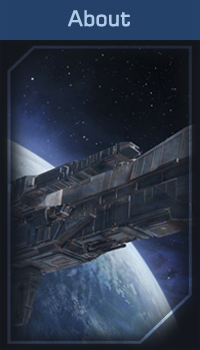
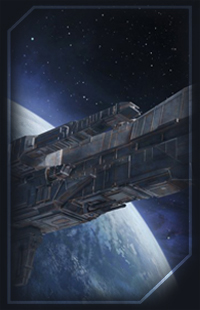
Add styling to one nav link

diff --git a/assets/css/style.css b/assets/css/style.css
@@ -139,20 +139,40 @@ nav {
     width: 1200px;
     margin: auto;
     background-color: yellow;
-    min-height: 100px;
+    min-height: 350px;
     clear: both;
     margin-top: 5px;
+    background-color: teal;
 }
 
 nav span {
-    background-color: red;
+    background-color: #244169;
     width: 200px;
-    height: 20px;
+    height: 11px;
     text-align: center;
     margin: 0px;
-    padding: 10px 0px;
+    padding-top: 10px;
+    padding-bottom: 20px; 
     float: left;
     font-size: 21px;
+    font-weight: 500;
+    color: #AECAEA;
 }
 
+.nav-about-img {
+    background-image: url("../images/navigation-about-full.jpg");
+    height: 280px;
+    margin-top: 10px;
+}
 
+nav span:hover {
+    background-color: #2D5183;
+}
+
+nav span:hover > .nav-about-img {
+    background-image: url("../images/navigation-about-on-full.jpg");
+}
+
+.nav-about-img:hover {
+    background-image: url("../images/navigation-about-on-full.jpg");
+}

diff --git a/index.html b/index.html
@@ -41,12 +41,16 @@
     <!-- Navbar -->
     <nav>
         <div>
-            <span>
-                a
-            </span>
-            <span>
-                b
-            </span>
+            <a href="#">
+                <span>About
+                    <span class="nav-about-img"></span>
+                </span>
+            </a>
+            <a href="#">
+                <span>Services
+                    <span class="nav-about-img"></span>
+                </span>
+            </a>
             <span>
                 c
             </span>
